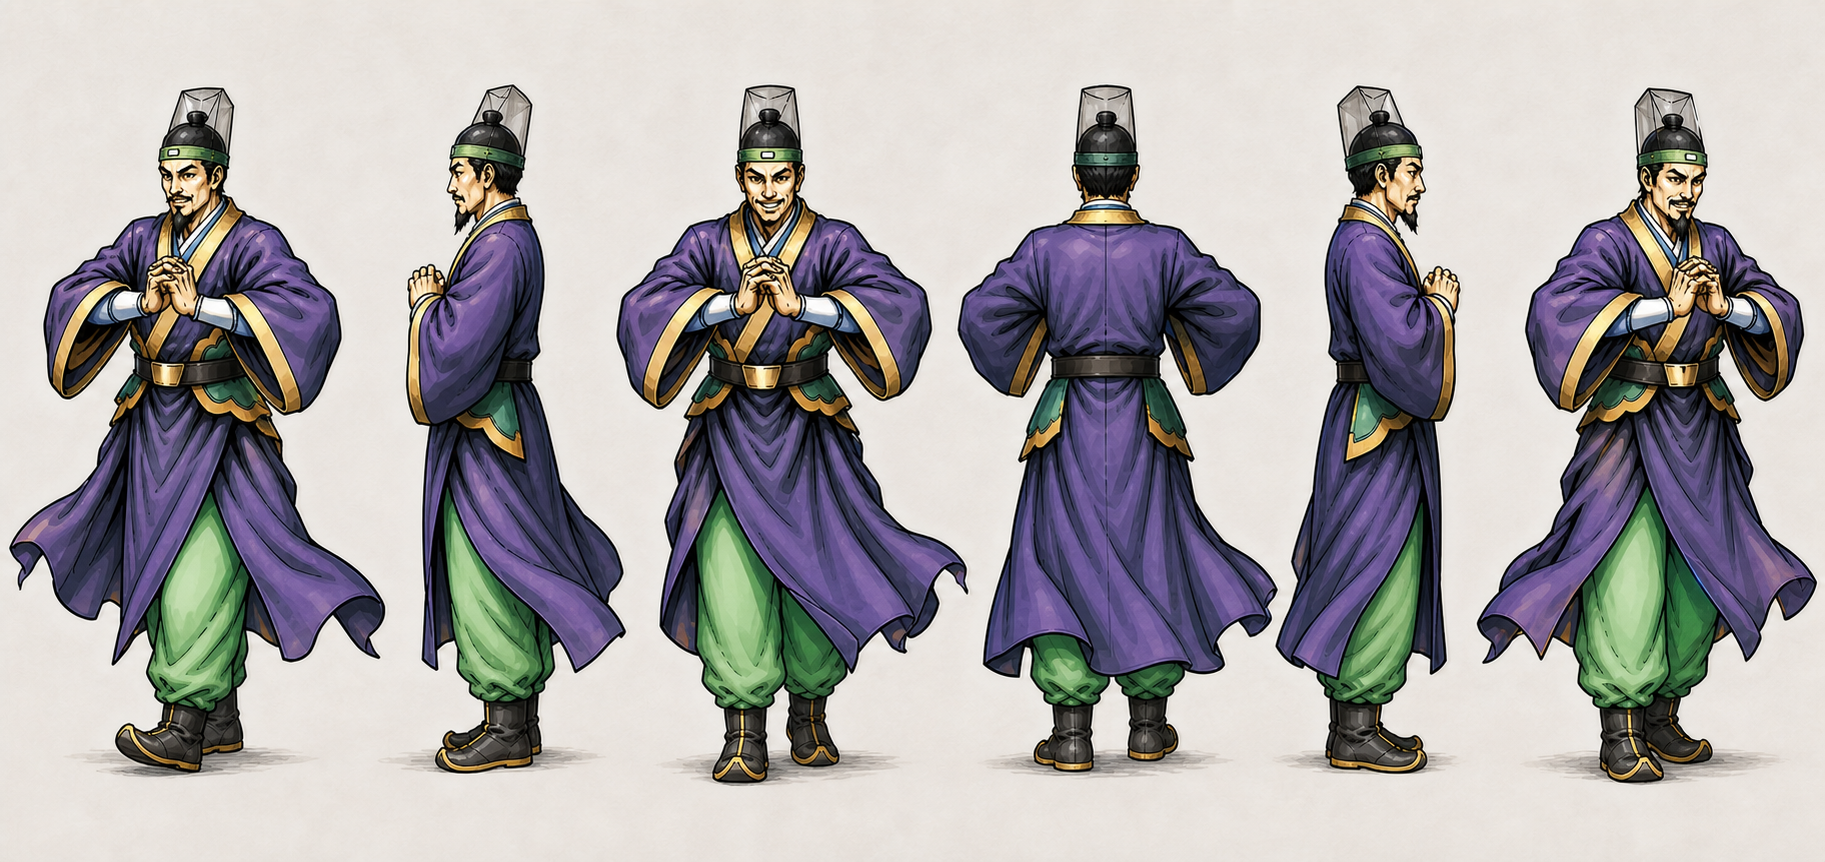
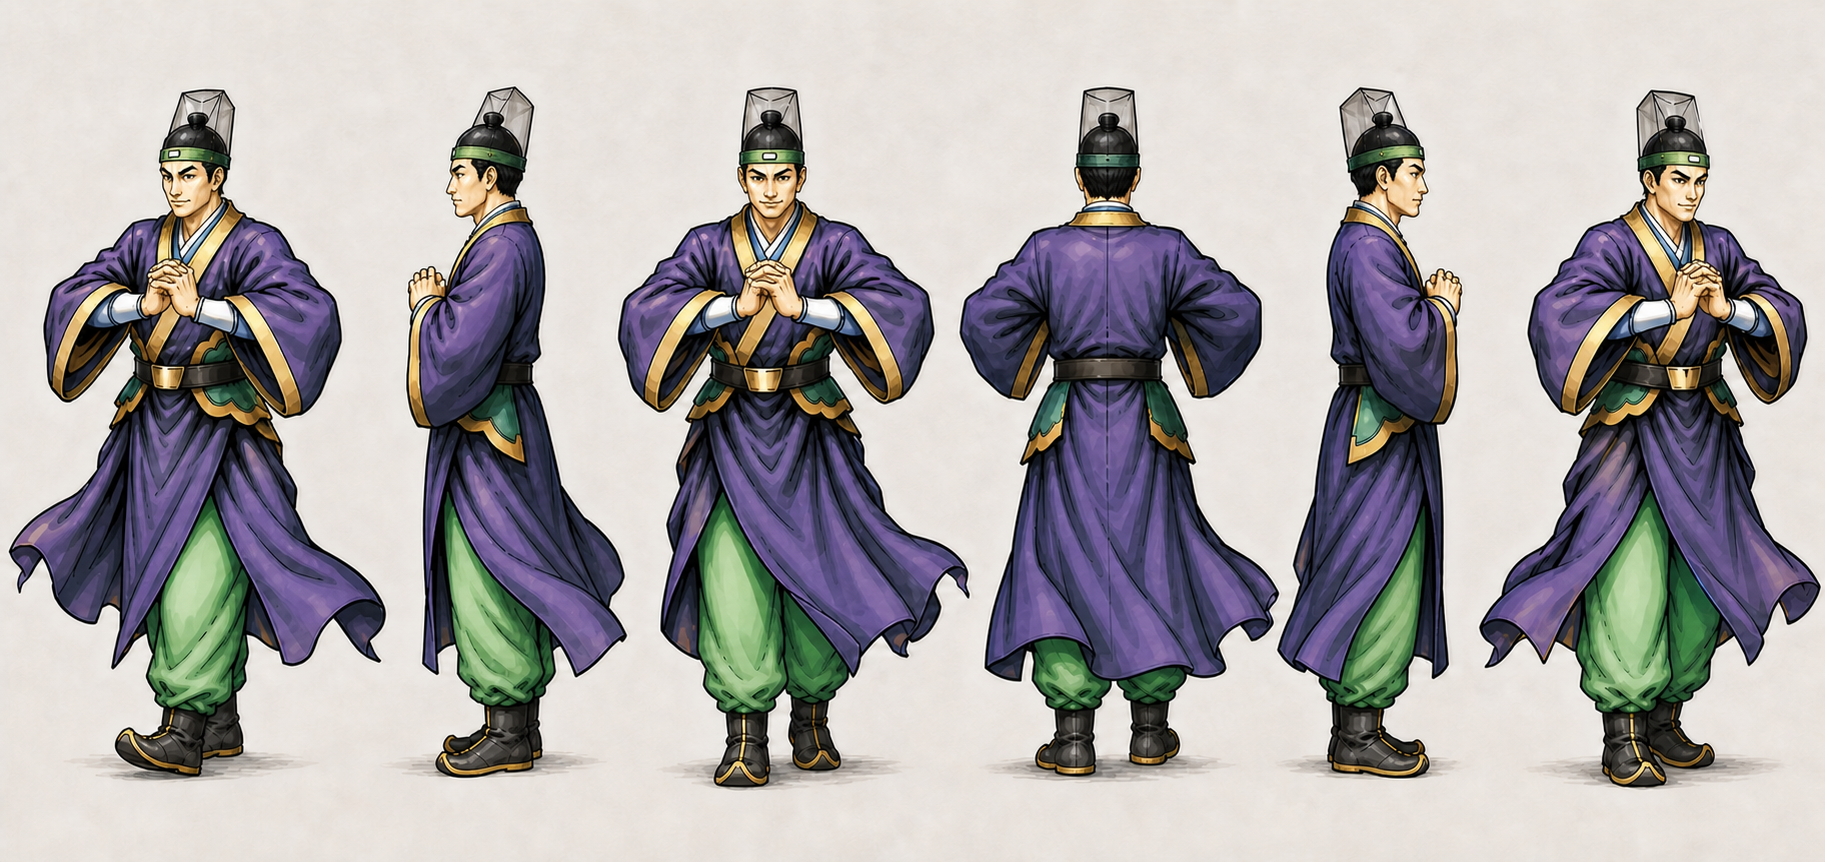
fix(角色设定): 移除 085 误生成的胡须
依据原图将角色身份规格修正为无胡须，并同步返修中立六视图、头部四视图和原画姿态六视图。\n\n保留返修前图片作为递增版本备份，更新生成提示与复核记录以避免后续重新引入胡须。

Changed region(s): [[0.0, 0.0905, 0.9995, 0.935]]

diff --git a/character-model-sheets/build_remaining_specs.py b/character-model-sheets/build_remaining_specs.py
@@ -90,7 +90,7 @@ DATA = {
     '082': dict(g='男性', age='中年', face='长方脸、浓眉、神情冷静', hair='深蓝黑长发高束并向后飘', beard='黑色细髭与尖短胡', body='高挑结实', costume='米白黑边长袍、红色腰裙与披带、金色护腿、黑色宽裤', palette='米白、黑、红、金、银', weapon='一对长直剑／弯剑，银白刃、黑色握柄与背负剑鞘', mount=None, pet=None, asym='双剑持握与背负鞘位不得镜像', unknown='双剑长度差、剑鞘固定与长袍背面不可见'),
     '083': dict(g='男性', age='成年', face='宽脸、浓眉、露齿笑', hair='黑发藏于绿色头巾', beard='无清晰胡须', body='极强壮、胸腹裸露', costume='黑银胸甲、绿色宽裤、黑色甲裙、绿色头巾与黑靴', palette='黑、银、绿、金', weapon='超长黑银杆枪／棍，细长金属杆与被裁切端头', mount=None, pet=None, asym='长杆持握和甲裙开口侧保持一致', unknown='长杆两端、背甲和头巾后结不可见'),
     '084': dict(g='男性', age='成年', face='面部被红色蒙面巾遮挡、眼神锐利', hair='头发完全藏于红色头巾和披巾', beard='胡须不可见', body='高挑敏捷', costume='红色蒙面头巾、红黑宽袍、金色腰带与黑色护臂', palette='红、黑、金、银蓝', weapon='一对巨大银蓝弧形短斧／翼形双刃，短柄与宽刃', mount=None, pet=None, asym='双刃数量和持握方向保持一致', unknown='蒙面下容貌、双刃反面和披巾背部不可见'),
-    '085': dict(g='男性', age='中老年', face='清瘦长脸、眉目沉静', hair='灰黑头发藏于灰色高帽', beard='细黑上髭与尖山羊胡', body='修长文士体型', costume='紫灰宽袖长袍、黑色胸带、绿色宽裤与灰色高帽', palette='紫灰、黑、绿、白', weapon=None, mount=None, pet=None, asym='双手结印属于动作，不作为永久左右结构', unknown='帽后发型、长袍背面与腰带闭合不可见'),
+    '085': dict(g='男性', age='中老年', face='清瘦长脸、眉目沉静', hair='灰黑头发藏于灰色高帽', beard='无胡须', body='修长文士体型', costume='紫灰宽袖长袍、黑色胸带、绿色宽裤与灰色高帽', palette='紫灰、黑、绿、白', weapon=None, mount=None, pet=None, asym='双手结印属于动作，不作为永久左右结构', unknown='帽后发型、长袍背面与腰带闭合不可见'),
     '086': dict(g='男性', age='成年', face='方脸、浓眉、神情警觉', hair='黑发被青绿色头巾遮挡', beard='黑色短髭与短须', body='精壮、上身裸露', costume='青绿色宽裤与头巾、黑色护腕、黑鞋，腰边散落铜钱', palette='青绿、黑、金铜、肤色', weapon=None, mount=None, pet=None, asym='背景兵器架不归入角色装备', unknown='人物是否拥有背景长兵器、裤装背结与鞋后不可见'),
     '087': dict(g='男性', age='青年', face='清秀瓜子脸、细眉、神情自信', hair='黑发高束并配紫红大蝴蝶结／头巾', beard='无胡须', body='高挑健壮、裸臂', costume='紫红大披巾与胸花、红腰带、浅蓝宽裤、金色首饰', palette='紫红、浅蓝、金、白', weapon=None, mount=None, pet=None, asym='胸花、披巾结与首饰侧位保持一致', unknown='披巾背面、发结固定与鞋履被裁切'),
     '088': dict(g='男性', age='中年', face='方脸、粗眉、神情严厉', hair='短金棕发向上竖立', beard='金棕短须', body='极魁梧、裸臂并有烧灼斑痕', costume='绿色工匠围裙、黄色宽裤、绿色厚手套与黑色护腕', palette='绿、黄、黑、金棕、银', weapon='铁匠钳、锻锤与正在锻造的长刀胚组合工具', mount=None, pet=None, asym='钳、锤和围裙系带位置保持一致', unknown='工具完整数量、围裙背带和刀胚最终形制不可见'),

diff --git a/character-model-sheets/characters/085/review-notes.md b/character-model-sheets/characters/085/review-notes.md
@@ -24,7 +24,13 @@
 ## 2026-08-21 头部四视图补充
 
 - [x] 已生成 `head-sheet.png`，严格按正面、纯后脑、角色自身左侧面、角色自身右侧面排列。
-- [x] 四张保持同一身份、颅骨体积、发型／头戴、胡须、颈部尺度、裁切、光照和固定复古手绘画风。
+- [x] 四张保持同一身份、颅骨体积、发型／头戴、无胡须面部、颈部尺度、裁切、光照和固定复古手绘画风。
 - [x] 纯后脑没有出现面部；左右侧面来自角色不同解剖侧，未用表情变化代替视角变化。
 - [x] 原图未展示的后脑与连接结构继续按规格中的 `inferred`／`unknown` 克制处理，不宣称为原作事实。
 - 状态保持 `generated`，等待用户批准。
+
+## 2026-08-22 胡须证据纠正与返修
+
+- [x] 重新核对原图：嘴唇、双颊、下颌与下巴为裸露皮肤，确认无胡须；原规格中的“细黑上髭与尖山羊胡”为误判。
+- [x] 中立六视图、头部四视图与原画姿态六视图中的错误胡须已全部移除，其他身份、服装、姿态、版式和固定画风保持不变。
+- 状态保持 `generated`，返修完成后等待用户批准。
